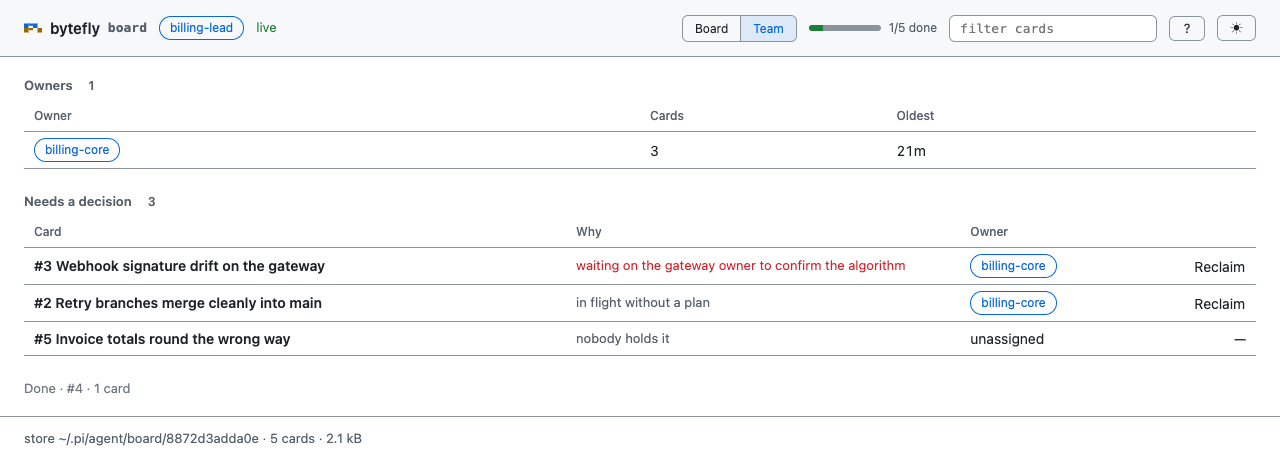
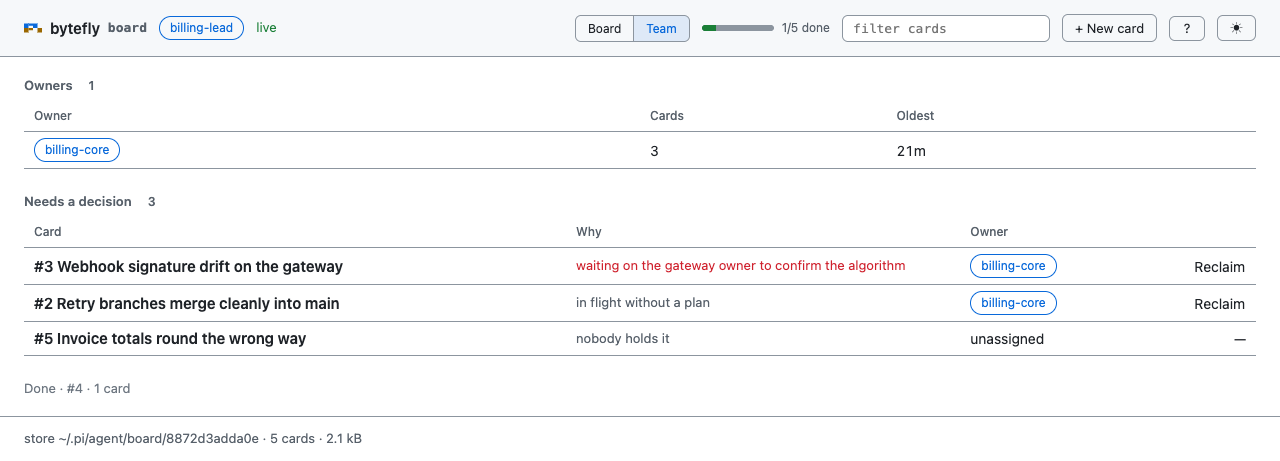
feat(board): fold the composer and give the lanes trays
The rebuilt page was correct but flat: a 160px composer outranked the board, the
four lanes were four lists of floating cards, nothing was louder than anything
else, and a finished card competed with a blocked one.

- The composer is a drawer behind **+ New card** (`n`), so the page opens on the
  board. It stays open after an add; `Esc` with a draft only leaves the field, so a
  half-typed card is never lost, and `Cancel` is the one way to discard it.
- A lane is a tray: a surface with a hairline head, a count pill, a chevron that
  answers the pointer, and cards set on the canvas inside it.
- The card title is the page's loudest text; a hovered card lifts a pixel (no
  shadow — on a dark canvas it reads as a smudge); a finished card recedes, its
  title and owner chip muted.
- The toolbar's controls are one group, so a narrow wrap happens between groups
  rather than between two controls that belong together; the progress bar is the
  first thing to go below 1180.
- Motion is dropped under `prefers-reduced-motion`.

diff --git a/extensions/board/view/styles.ts b/extensions/board/view/styles.ts
@@ -23,16 +23,21 @@ ${WEB_COMPONENTS_CSS}
 /* Toolbar: identity and state on the left, the controls the reader uses on the right. */
 .board-toolbar{gap:var(--space-3);flex-wrap:wrap}
 .board-status{margin:0}
+/* The right side of the toolbar is one group, so a wrap happens between groups
+   rather than between two controls that belong together. */
+.board-controls{display:flex;align-items:center;gap:var(--space-3);flex-wrap:wrap;justify-content:flex-end}
 .board-filter{width:13rem}
 .board-progress{margin:0}
 .board-picker{display:none;margin-bottom:var(--space-3)}
 
-/* Composer: one box, two fields, and the action on its own row. */
-.board-composer{margin-bottom:var(--space-5)}
+/* Composer: folded behind the toolbar's button until it is asked for, so the
+   board is what the page opens on. */
+.board-composer{margin-bottom:var(--space-4)}
 .board-composer__fields{display:grid;grid-template-columns:minmax(14rem,2fr) minmax(10rem,1fr);gap:var(--space-2)}
 .board-composer__fields .bf-field{min-width:0}
 .board-composer__hint{margin:0;padding:0}
 .board-composer .bf-composer__row{align-items:center;justify-content:space-between;gap:var(--space-3);margin-top:var(--space-2)}
+.board-composer__actions{display:flex;align-items:center;gap:var(--space-2)}
 
 /* The main pane is this page's only child of the shell, so it grows to fill the
    column and the footer stays at the bottom however short the board is. */
@@ -43,15 +48,16 @@ ${WEB_COMPONENTS_CSS}
 .board-banner{margin:0 0 var(--space-4)}
 .board-no-cards{max-width:32rem;margin:auto;padding:var(--space-8) var(--space-6)}
 
-/* Lanes: four columns of cards, with a head that sticks while the pane scrolls. */
+/* Lanes: four trays of cards, each with a head that sticks while the pane scrolls. */
 .board-lanes{display:grid;grid-template-columns:repeat(4,minmax(0,1fr));gap:var(--space-4);align-items:start}
-.board-lane{display:flex;flex-direction:column;gap:var(--space-3);min-width:0}
-.board-lane__head{position:sticky;top:0;z-index:1;display:flex;align-items:center;gap:var(--space-2);margin:0;padding:var(--space-2) 0;background:var(--canvas);font:var(--fw-semibold) var(--fs-sm) var(--font-ui);letter-spacing:.04em;text-transform:uppercase;color:var(--muted)}
+.board-lane{display:flex;flex-direction:column;gap:var(--space-2);min-width:0;padding:0 var(--space-2) var(--space-3);border:1px solid var(--border);border-radius:var(--radius-lg);background:var(--surface)}
+.board-lane__head{position:sticky;top:0;z-index:1;display:flex;align-items:center;gap:var(--space-2);margin:0 calc(-1 * var(--space-2)) var(--space-1);padding:var(--space-2) var(--space-2);background:var(--surface);border-bottom:1px solid var(--border);border-radius:var(--radius-lg) var(--radius-lg) 0 0;font:var(--fw-semibold) var(--fs-xs) var(--font-ui);letter-spacing:.06em;text-transform:uppercase;color:var(--muted)}
 .board-lane__toggle{appearance:none;display:flex;align-items:center;gap:var(--space-2);border:0;background:none;padding:0;font:inherit;letter-spacing:inherit;text-transform:inherit;color:inherit;cursor:pointer}
 .board-lane__toggle:hover{color:var(--accent)}
 .board-lane__toggle::after{content:"▾";margin-left:2px;font-size:var(--fs-sm);color:var(--muted)}
+.board-lane__toggle:hover::after{color:var(--accent)}
 .board-lane__toggle[aria-expanded="false"]::after{content:"▸"}
-.board-lane__count{font-variant-numeric:tabular-nums;color:var(--dim)}
+.board-lane__count{font-variant-numeric:tabular-nums;color:var(--muted);background:var(--canvas);border-radius:var(--radius-pill);padding:0 var(--space-2);font-size:var(--fs-xs);letter-spacing:0}
 .board-lane__dot{width:var(--space-2);height:var(--space-2);border-radius:var(--radius-pill);background:var(--muted)}
 .board-lane[data-status="doing"] .board-lane__dot{background:var(--accent)}
 .board-lane[data-status="blocked"] .board-lane__dot{background:var(--danger)}
@@ -60,8 +66,8 @@ ${WEB_COMPONENTS_CSS}
 .board-lane__empty{margin:0;font:var(--fs-sm) var(--font-ui);color:var(--dim)}
 
 /* A card: a status edge, the title, then the facts a reader needs to act on it. */
-.board-card{display:flex;flex-direction:column;gap:var(--space-2);padding:var(--space-3);border:1px solid var(--border);border-left-width:3px;border-left-style:solid;border-radius:var(--radius-md);background:var(--surface);transition:border-color var(--motion-fast) var(--motion-ease)}
-.board-card:hover{border-color:var(--border-strong)}
+.board-card{display:flex;flex-direction:column;gap:var(--space-2);padding:var(--space-3);border:1px solid var(--border);border-left-width:3px;border-left-style:solid;border-radius:var(--radius-md);background:var(--canvas);transition:border-color var(--motion-fast) var(--motion-ease),transform var(--motion-fast) var(--motion-ease)}
+.board-card:hover{border-color:var(--border-strong);transform:translateY(-1px)}
 .board-card[data-status="todo"]{border-left-color:var(--muted)}
 .board-card[data-status="doing"]{border-left-color:var(--accent)}
 .board-card[data-status="blocked"]{border-left-color:var(--danger)}
@@ -69,8 +75,12 @@ ${WEB_COMPONENTS_CSS}
 .board-card[hidden]{display:none}
 .board-card__head{display:flex;align-items:baseline;gap:var(--space-2);margin:0;min-width:0}
 .board-card__id{font:var(--fs-xs) var(--font-mono);color:var(--dim)}
-.board-card__title{margin:0;padding:0;border:0;background:none;text-align:left;cursor:pointer;font:var(--fw-semibold) var(--fs-md)/var(--lh-snug) var(--font-ui);color:var(--text);display:-webkit-box;-webkit-line-clamp:2;-webkit-box-orient:vertical;overflow:hidden}
+.board-card__title{margin:0;padding:0;border:0;background:none;text-align:left;cursor:pointer;font:var(--fw-semibold) var(--fs-base)/var(--lh-snug) var(--font-ui);color:var(--text);display:-webkit-box;-webkit-line-clamp:2;-webkit-box-orient:vertical;overflow:hidden}
 .board-card__title:hover{color:var(--accent)}
+/* Finished work recedes: it is history, and the live lanes should not compete with it. */
+.board-card[data-status="done"] .board-card__title{color:var(--muted)}
+.board-card[data-status="done"] .board-card__title:hover{color:var(--accent)}
+.board-card[data-status="done"] .bf-chip--accent{color:var(--muted);border-color:var(--border)}
 .board-card__meta{display:flex;flex-wrap:wrap;align-items:center;gap:var(--space-2);margin:0;font:var(--fs-xs) var(--font-ui);color:var(--muted)}
 .board-card__paths{display:flex;flex-wrap:wrap;gap:var(--space-1);margin:0;padding:0;list-style:none}
 .board-card__reason{margin:0;font:var(--fs-xs) var(--font-ui);color:var(--muted);white-space:nowrap;overflow:hidden;text-overflow:ellipsis}
@@ -110,6 +120,7 @@ ${WEB_COMPONENTS_CSS}
 
 @media (max-width:1180px){
   .board-lanes{grid-template-columns:repeat(2,minmax(0,1fr))}
+  .board-progress{display:none}
 }
 @media (max-width:860px){
   .board-lanes{grid-template-columns:minmax(0,1fr)}
@@ -119,8 +130,13 @@ ${WEB_COMPONENTS_CSS}
   .board-toolbar .bf-spacer{display:none}
   /* The icons stay with the tabs and the filter takes the last row whole, so the
      toolbar wraps once, on purpose, instead of leaving two buttons stranded. */
+  .board-controls{width:100%;justify-content:flex-start}
   .board-filter{order:9;width:100%}
   .board-composer__fields{grid-template-columns:minmax(0,1fr)}
+}
+@media (prefers-reduced-motion: reduce){
+  .board-card{transition:none}
+  .board-card:hover{transform:none}
 }
 @media print{
   .board-lanes{grid-template-columns:minmax(0,1fr)}

diff --git a/extensions/board/view/page.ts b/extensions/board/view/page.ts
@@ -41,24 +41,27 @@ ${docHead({ title: "board", css: BOARD_CSS })}
   <span class="bf-chip bf-chip--accent" id="board-me" title="Writes from this page are made as this session">board</span>
   <p class="bf-status board-status" id="board-status" data-state="connecting" aria-live="polite">connecting…</p>
   <span class="bf-spacer"></span>
-  <div class="bf-segmented" role="tablist" aria-label="View">
-    <button type="button" class="bf-segmented__item" role="tab" id="tab-board" data-view="board" aria-controls="panel-board"${team ? "" : ' aria-current="page"'}>Board</button>
-    <button type="button" class="bf-segmented__item" role="tab" id="tab-team" data-view="team" aria-controls="panel-team"${team ? ' aria-current="page"' : ""}>Team</button>
+  <div class="board-controls">
+    <div class="bf-segmented" role="tablist" aria-label="View">
+      <button type="button" class="bf-segmented__item" role="tab" id="tab-board" data-view="board" aria-controls="panel-board"${team ? "" : ' aria-current="page"'}>Board</button>
+      <button type="button" class="bf-segmented__item" role="tab" id="tab-team" data-view="team" aria-controls="panel-team"${team ? ' aria-current="page"' : ""}>Team</button>
+    </div>
+    <p class="bf-progress board-progress" id="board-progress" hidden>
+      <span class="bf-progress__track"><span class="bf-progress__fill" id="board-progress-fill"></span></span>
+      <span id="board-progress-text">0/0</span>
+    </p>
+    <label class="bf-field board-filter"><span class="sr-only">Filter cards</span>
+      <input class="bf-input" id="board-filter" type="search" placeholder="filter cards" autocomplete="off">
+    </label>
+    ${button({ label: "+ New card", id: "board-new", title: "New card — n", attrs: { "aria-expanded": "false" } })}
+    ${button({ label: "?", variant: "icon", id: "keys-open", title: "Keyboard shortcuts", attrs: { "aria-haspopup": "dialog" } })}
+    ${themeToggle()}
   </div>
-  <p class="bf-progress board-progress" id="board-progress" hidden>
-    <span class="bf-progress__track"><span class="bf-progress__fill" id="board-progress-fill"></span></span>
-    <span id="board-progress-text">0/0</span>
-  </p>
-  <label class="bf-field board-filter"><span class="sr-only">Filter cards</span>
-    <input class="bf-input" id="board-filter" type="search" placeholder="filter cards" autocomplete="off">
-  </label>
-  ${button({ label: "?", variant: "icon", id: "keys-open", title: "Keyboard shortcuts", attrs: { "aria-haspopup": "dialog" } })}
-  ${themeToggle()}
 </div></header>
 <main class="bf-app__main board-main" id="main" tabindex="-1">
   <p class="bf-note board-banner" id="board-banner" role="status" hidden></p>
   <section class="board-panel" id="panel-board" role="tabpanel" aria-labelledby="tab-board"${team ? " hidden" : ""}>
-    <form class="bf-composer board-composer" id="board-composer" autocomplete="off">
+    <form class="bf-composer board-composer" id="board-composer" autocomplete="off" hidden>
       <div class="board-composer__fields">
         <label class="bf-field"><span>Title</span>
           <input class="bf-input" id="new-title" name="title" placeholder="the feature's outcome, one line" maxlength="120" required>
@@ -69,7 +72,10 @@ ${docHead({ title: "board", css: BOARD_CSS })}
       </div>
       <div class="bf-composer__row">
         <p class="bf-note board-composer__hint" id="composer-hint">one card per feature — its steps live in the owner's plan and todo</p>
-        <button class="bf-btn bf-btn--primary" type="submit" id="new-submit">Add card</button>
+        <div class="board-composer__actions">
+          <button class="bf-btn" type="button" id="board-cancel">Cancel</button>
+          <button class="bf-btn bf-btn--primary" type="submit" id="new-submit">Add card</button>
+        </div>
       </div>
     </form>
     <div class="bf-segmented board-picker" id="board-picker" role="tablist" aria-label="Lane"></div>

diff --git a/extensions/board/view/live.ts b/extensions/board/view/live.ts
@@ -86,9 +86,50 @@ export const BOARD_LIVE_JS = String.raw`(function () {
   };
 
   board.showView = showView;
-  board.focusComposer = function () {
+
+  /** Open the composer drawer and put the caret in it. */
+  board.openComposer = function () {
+    var form = document.getElementById("board-composer");
+    var trigger = document.getElementById("board-new");
+    if (form) form.hidden = false;
+    if (trigger) trigger.setAttribute("aria-expanded", "true");
     var input = document.getElementById("new-title");
     if (input) input.focus();
+  };
+
+  /** Fold it away, unless a draft is in it — a half-typed card is not lost on Esc. */
+  board.closeComposer = function () {
+    var form = document.getElementById("board-composer");
+    var trigger = document.getElementById("board-new");
+    var title = document.getElementById("new-title");
+    var paths = document.getElementById("new-paths");
+    if (!form || form.hidden) return;
+    if (title && title.value.trim() !== "") return;
+    if (paths && paths.value.trim() !== "") return;
+    form.hidden = true;
+    if (trigger && trigger.focus) trigger.focus();
+    if (trigger) trigger.setAttribute("aria-expanded", "false");
+  };
+
+  /** Discard whatever is in the drawer and fold it, leaving focus on the trigger. */
+  board.cancelComposer = function () {
+    var form = document.getElementById("board-composer");
+    if (!form) return;
+    form.hidden = true;
+    var trigger = document.getElementById("board-new");
+    if (trigger) {
+      trigger.setAttribute("aria-expanded", "false");
+      trigger.focus();
+    }
+  };
+
+  board.composerOpen = function () {
+    var form = document.getElementById("board-composer");
+    return form ? !form.hidden : false;
+  };
+
+  board.focusComposer = function () {
+    board.openComposer();
   };
   board.focusFilter = function () {
     var input = document.getElementById("board-filter");
@@ -193,14 +234,30 @@ export const BOARD_LIVE_JS = String.raw`(function () {
       if (paths.length > 0) input.paths = paths;
       board.add(input).then(function (payload) {
         if (!payload) return;
+        // The drawer stays open: a lead publishes several cards in a row.
         form.reset();
         title.focus();
       });
     });
+    var trigger = document.getElementById("board-new");
+    if (trigger) {
+      trigger.addEventListener("click", function () {
+        if (board.composerOpen()) board.closeComposer();
+        else board.openComposer();
+      });
+    }
+    // A drawer with a draft opens no other way out, so Cancel discards it on purpose.
+    var cancel = document.getElementById("board-cancel");
+    if (cancel) {
+      cancel.addEventListener("click", function () {
+        form.reset();
+        board.cancelComposer();
+      });
+    }
     var first = document.getElementById("board-first-card");
     if (first) {
       first.addEventListener("click", function () {
-        board.focusComposer();
+        board.openComposer();
       });
     }
   }

diff --git a/extensions/board/view/pages.test.ts b/extensions/board/view/pages.test.ts
@@ -50,12 +50,14 @@ describe("the document", () => {
 			"board-progress-fill",
 			"board-progress-text",
 			"board-filter",
+			"board-new",
 			"keys-open",
 			"board-banner",
 			"board-composer",
 			"new-title",
 			"new-paths",
 			"new-submit",
+			"board-cancel",
 			"board-picker",
 			"board-lanes",
 			"board-no-cards",
@@ -84,6 +86,14 @@ describe("the document", () => {
 		]) {
 			expect(page, id).toContain(`id="${id}"`);
 		}
+	});
+
+	test("opens with the composer folded behind its one trigger", () => {
+		const page = renderBoardPage({ view: "board" });
+		// The board is what the page opens on; the drawer is asked for, not offered twice.
+		expect(page).toContain('id="board-composer" autocomplete="off" hidden');
+		expect(page).toContain('id="board-new"');
+		expect(page).toContain('aria-expanded="false"');
 	});
 
 	test("carries no card text at all", () => {

diff --git a/extensions/board/view/keys.ts b/extensions/board/view/keys.ts
@@ -78,6 +78,13 @@ export const BOARD_KEYS_JS = String.raw`(function () {
           board.closeCard();
           return;
         }
+        // The composer folds on one Escape when it holds nothing; with a draft, the
+        // first Escape only leaves the field, so a half-typed card is never lost.
+        if (board.composerOpen && board.composerOpen()) {
+          board.closeComposer();
+          if (board.composerOpen() && typing(target)) target.blur();
+          return;
+        }
         // A filter with text is what Escape is for here; an empty one gives the
         // keyboard back to the page by leaving the field.
         if (board.hasFilter()) {

diff --git a/docs/extensions/board.md b/docs/extensions/board.md
@@ -93,10 +93,10 @@ pinned and makes the main pane the only scroll box; the page adds no second one.
 
 | Band | What it holds |
 |---|---|
-| Toolbar | the mark, the serving session as a chip, a live badge (`connecting`, `live · 3m`, `reconnecting`), the Board\|Team switch, done-of-total progress, a filter, the keys button, and the theme toggle |
-| Composer | one row: a title and space-separated path hints, the hint line under them, and **Add card** |
-| Lanes | four columns at ≥1180, two rows at 1000, one lane plus the lane switch at ≤860; each head sticks while the pane scrolls and folds its cards away |
-| Cards | a status edge in the lane's role colour, the id and a two-line title, an owner chip and an age, path chips, one reason line, and at most three actions — `Claim` or `Move` bordered, then `Note` and `Open` |
+| Toolbar | the mark, the serving session as a chip, a live badge (`connecting`, `live · 3m`, `reconnecting`), then one group: the Board\|Team switch, done-of-total progress, a filter, **+ New card**, the keys button, and the theme toggle |
+| Composer | a drawer the toolbar's button (or `n`) opens: a title, space-separated path hints, the hint line, `Cancel`, and **Add card**; it stays open after an add, so a lead can publish several cards |
+| Lanes | trays, not a bare list: four columns at ≥1180, two rows at 1000, one lane plus the lane switch at ≤860. Each head sticks while the pane scrolls, carries its count as a pill, and folds its cards away |
+| Cards | a status edge in the lane's role colour, the id and a two-line title (the page's loudest text), an owner chip and an age, path chips, one reason line, and at most three actions — `Claim` or `Move` bordered, then `Note` and `Open`. A hovered card lifts a pixel; a finished one recedes, title and owner chip muted |
 | Team | a table of owners (`Owner · Cards · Oldest`), a table of cards that need a decision (`Card · Why · Owner` with `Reclaim`), and one muted Done line |
 | Card dialog | a meta line, the owner, the paths, the plan as monospace text, the notes as a timeline, a note field, and the lane buttons, `Release`, `Drop`, `Close` |
 
@@ -109,12 +109,12 @@ own.
 
 | Key | What it does |
 |---|---|
-| `n` | New card: focus the title field |
+| `n` | New card: open the composer and focus the title field |
 | `/` | Filter the cards by title, path, or owner |
 | `j` / `k` | Next or previous card |
 | `Enter` | Open the focused card |
 | `t` | Switch Board and Team |
-| `Esc` | Close a dialog, or clear the filter |
+| `Esc` | Close a dialog, fold the composer, or clear the filter |
 | `?` | The keyboard sheet |
 
 A dialog traps `Tab`, closes on `Esc` or a backdrop click, and returns focus to
@@ -169,6 +169,9 @@ pages. A field keeps its keys: `n` inside the note input types an `n`.
   this holds", never "force this state".
 - **The page is a dumb renderer** over one snapshot built on the server, pushed
   only when a card's revision moves.
+- **The composer is a drawer, not a fixture.** The page opens on the board; a card is
+  something you ask to write. Its draft survives an `Esc` that only leaves the field,
+  and `Cancel` is the one way to throw it away.
 - **Rejected:** steps as cards (they flood the board), a shared database (a file per
   card needs no dependency and no lock), an index file (every write maintains it,
   every read can find it stale), and drag-and-drop (a lane change is a named `move`).

diff --git a/CHANGELOG.md b/CHANGELOG.md
@@ -18,7 +18,11 @@ to [Semantic Versioning](https://semver.org/spec/v2.0.0.html).
   drive it from the keyboard, and a filter matches a card by title, path, or holder.
   Both modals are now the kit's `bf-dialog` behind one `dialogScript` (the Tab trap,
   `Esc`, the backdrop click, and the focus return the shared contract promises),
-  replacing the page's own native-dialog implementation.
+  replacing the page's own native-dialog implementation. The polish pass on top: the
+  composer folds behind **+ New card** so the page opens on the board (its draft
+  survives a stray `Esc`; `Cancel` discards it), each lane is a tray with a sticky
+  head and a count pill, the card title is the page's loudest text, a hovered card
+  lifts and a finished one recedes, and the toolbar's controls wrap as one group.
 - `team`: the lead's round over the board — `assign` and `reclaim`, the two actions
   that need the session bus. `assign` hands a card to a session that is already
   running: it checks the card's preconditions, sends a handoff through `session send`

diff --git a/docs/user-guide/delegate-and-background.md b/docs/user-guide/delegate-and-background.md
@@ -299,8 +299,9 @@ every worktree sees the same cards.
   **Board** tab with the four lanes, and a **Team** tab with one panel per owner.
   The toolbar and footer stay put while the board scrolls, and the page follows the
   store live — a card another session moves appears within a second, and an open
-  card dialog updates in place. A filter (`/`), a fold on each lane head, and
-  `?` for the keys make a wide board navigable without the mouse. Writes from the page are made as the serving
+  card dialog updates in place. Each of the four lanes is a tray you can fold, the
+  composer sits behind **+ New card** so the board opens on the work, and a filter
+  (`/`) plus `?` for the keys make a wide board navigable without the mouse. Writes from the page are made as the serving
   session, and claim, reclaim, and delete ask first.
 - Ownership is advisory. Two sessions can still edit the same file; a path claim
   in `session-bus` is what protects it.
